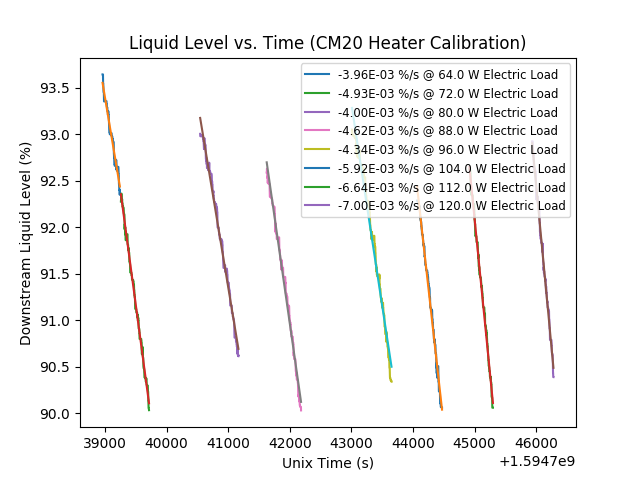
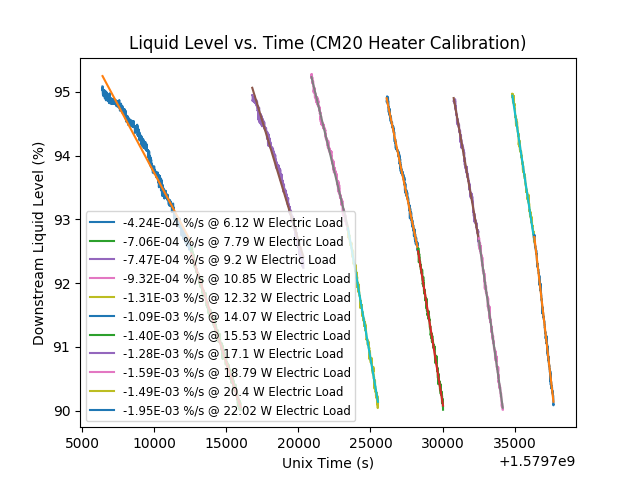
moving the cryo checks around and ramping cavities down slowly

diff --git a/container.py b/container.py
@@ -27,7 +27,7 @@ from utils import (writeAndFlushStdErr, MYSAMPLER_TIME_INTERVAL, TEST_MODE,
                    JT_SEARCH_TIME_RANGE, JT_SEARCH_HOURS_PER_STEP,
                    HOURS_NEEDED_FOR_FLATNESS, getDataAndHeaterCols,
                    collapseHeaterVals, ValveParams, TimeParams, compatibleNext,
-                   compatibleMkdirs)
+                   compatibleMkdirs, INITIAL_CAL_HEAT_LOAD)
 
 RUN_STATUS_MSSG = ("\nWaiting for the LL to drop {DIFF}% "
                    "or below {MIN}%...".format(MIN=MIN_DS_LL, DIFF=TARGET_LL_DIFF))
@@ -563,12 +563,14 @@ class Cryomodule(Container):
         if not valveParams:
             valveParams = self.getRefValveParams()
 
-        self.waitForTotalHeatDes(valveParams)
+        deltaTot = valveParams.refHeatLoadDes - self.totalHeatDes
 
         startTime = datetime.now().replace(microsecond=0)
 
-        self.launchHeaterRun(8)
+        self.walkHeaters((INITIAL_CAL_HEAT_LOAD + deltaTot) / 8)
         self.waitForCryo(valveParams.refValvePos)
+
+        self.launchHeaterRun(0)
         if (self.liquidLevelDS - MIN_DS_LL) < TARGET_LL_DIFF:
             print("Please ask the cryo group to refill to {LL} on the"
                   " downstream sensor".format(LL=MAX_DS_LL))
@@ -686,13 +688,15 @@ class Cryomodule(Container):
             if not valveParams:
                 valveParams = self.getRefValveParams()
 
-            self.waitForCryo(valveParams.refValvePos)
-            self.waitForTotalHeatDes(valveParams)
+            deltaTot = valveParams.refHeatLoadDes - self.totalHeatDes
+            self.walkHeaters(deltaTot / 8)
 
             for cavity in self.cavities.values():
 
                 if cavity.cavNum not in desiredGradients:
                     continue
+
+                print("\nRunning up Cavity {CAV}...".format(CAV=cavity.cavNum))
 
                 cavity.checkAcqControl()
                 cavity.setPowerStateSSA(True)
@@ -722,6 +726,8 @@ class Cryomodule(Container):
 
                 cavity.walkToGradient(desiredGradients[cavity.cavNum])
 
+            self.waitForCryo(valveParams.refValvePos)
+
             startTime = self.holdGradient(desiredGradients).replace(microsecond=0)
 
             for cavity in self.cavities.values():
@@ -729,6 +735,7 @@ class Cryomodule(Container):
                 if cavity.cavNum not in desiredGradients:
                     continue
 
+                cavity.walkToGradient(5)
                 cavity.powerDown()
 
             self.waitForCryo(valveParams.refValvePos)

diff --git a/utils.py b/utils.py
@@ -59,7 +59,9 @@ ERROR_MESSAGE = "Please provide valid input"
 # This is used to suppress the output of the caput function.
 FNULL = open(devnull, "w")
 
-# TODO: Add an INITIAL_CAL_HEAT_LOAD or something like that
+# The starting point for our calibration
+INITIAL_CAL_HEAT_LOAD = 64
+
 # The number of distinct heater settings we're using for cryomodule calibrations
 NUM_CAL_STEPS = 12
 
